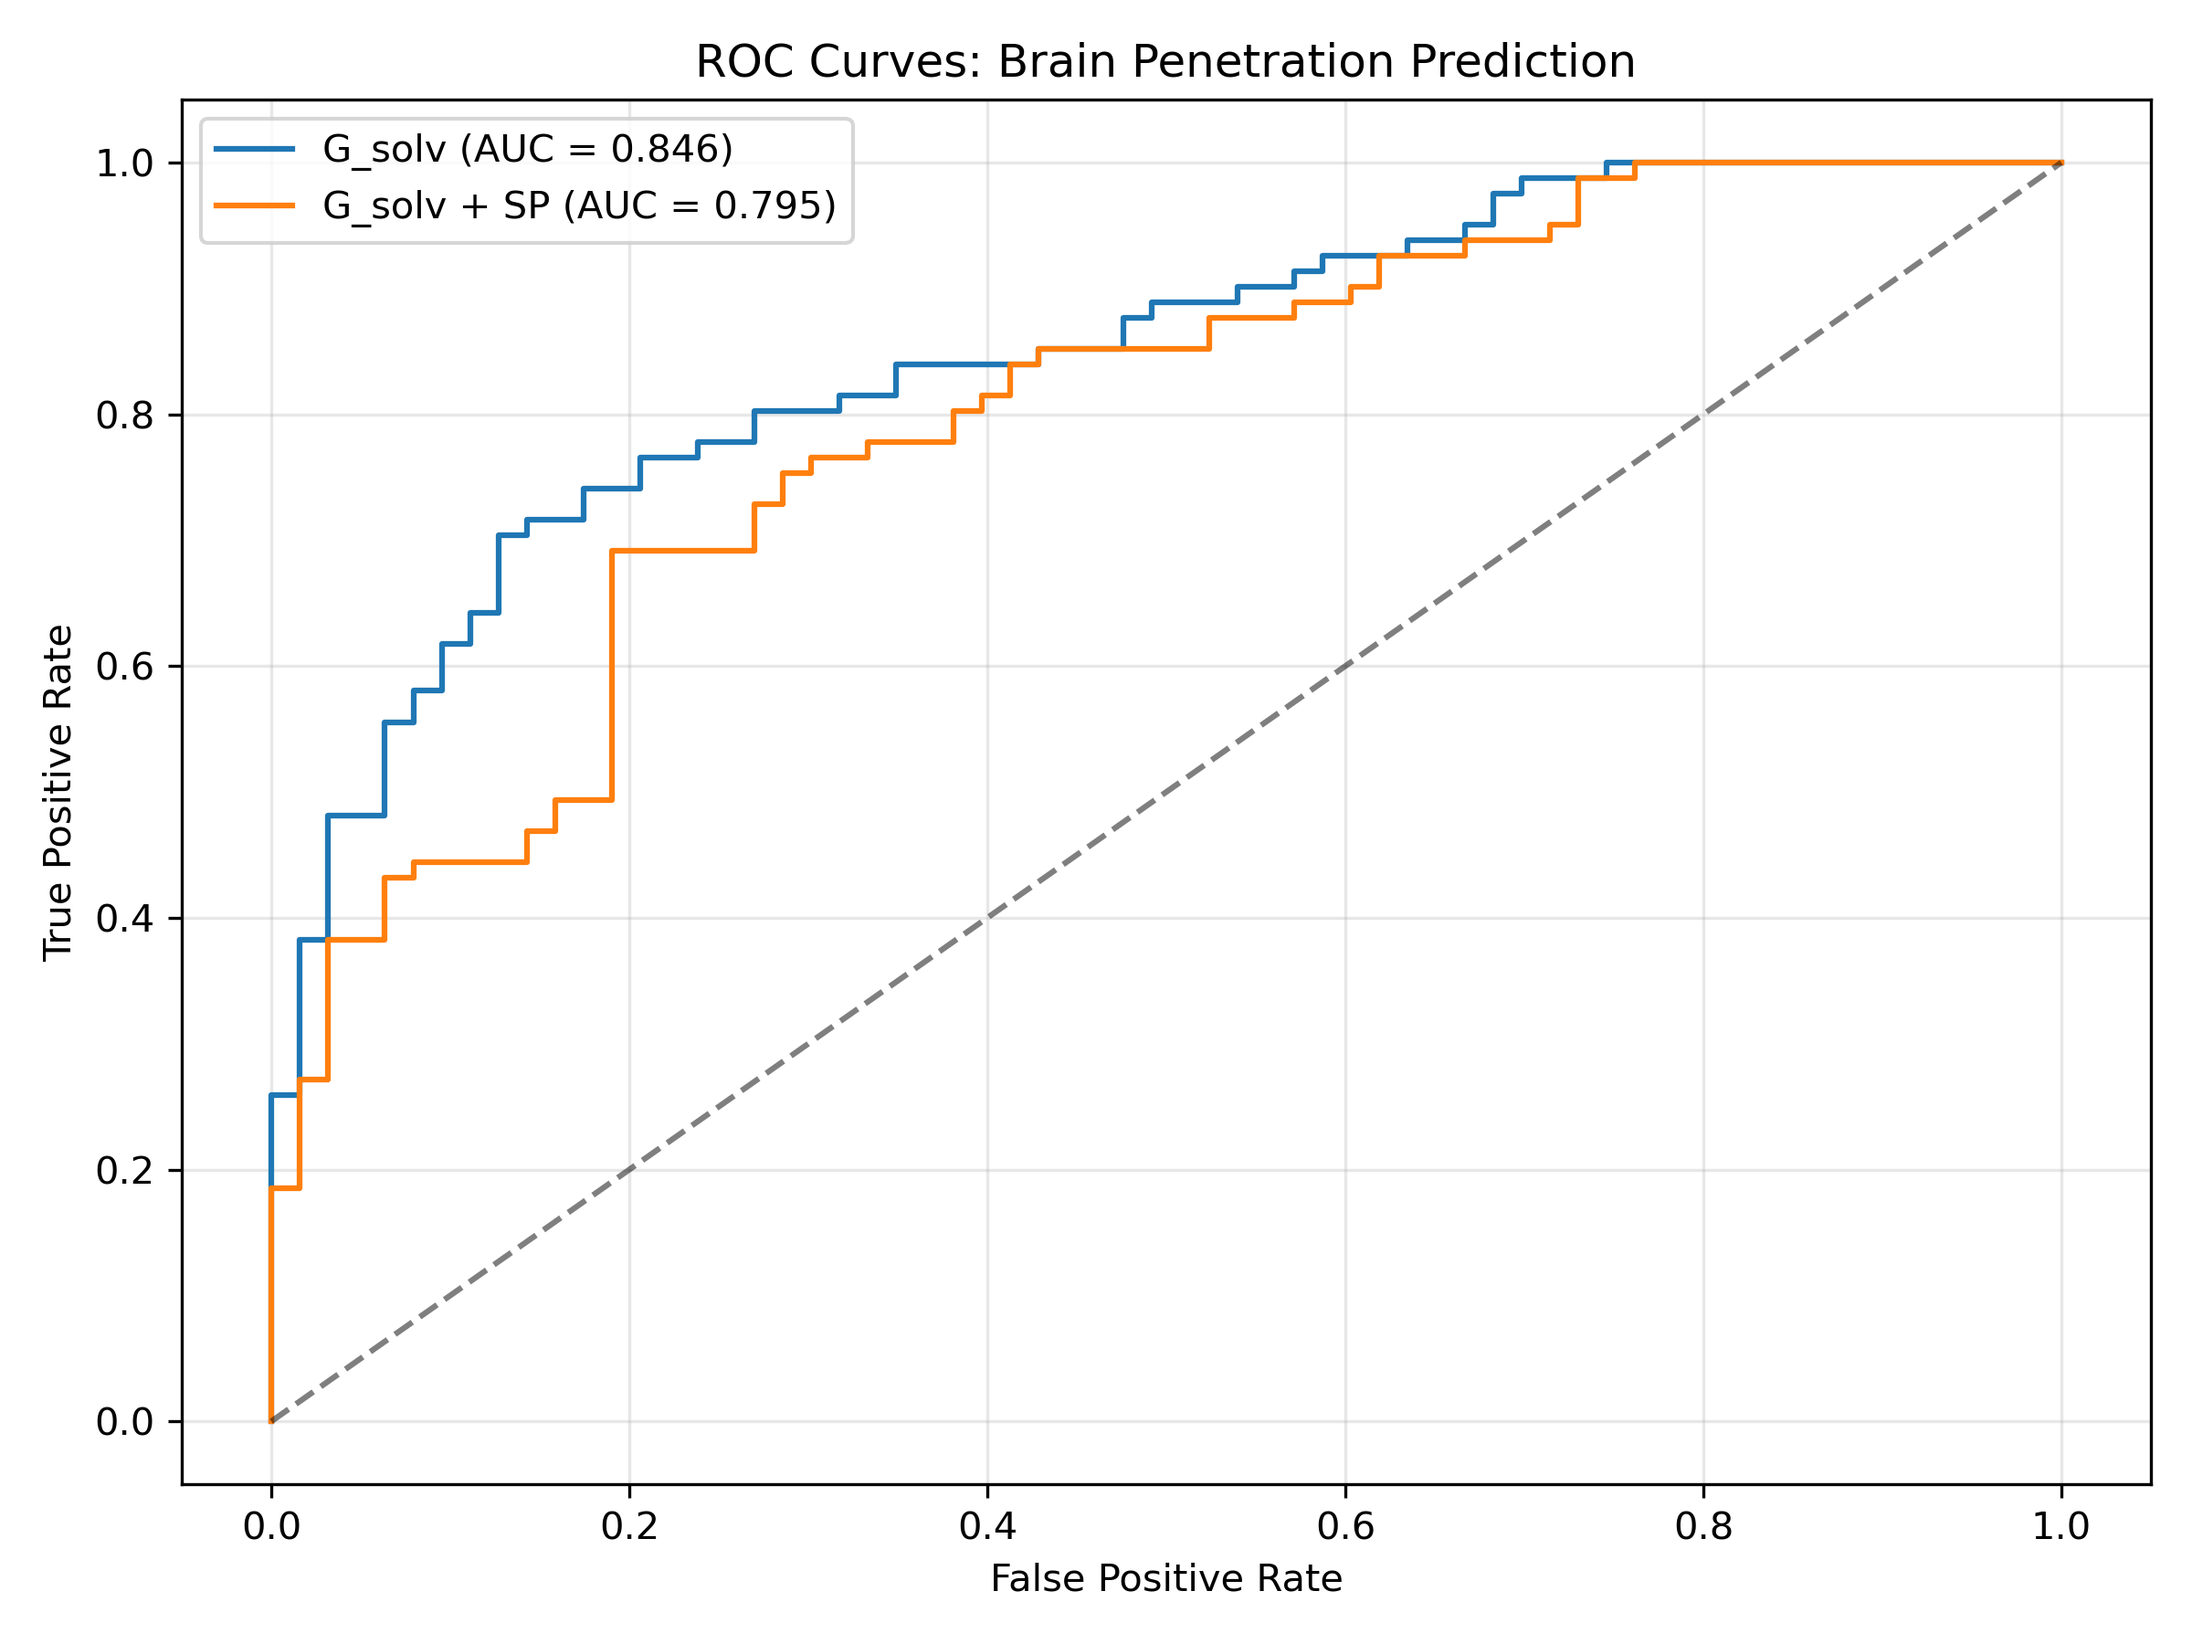
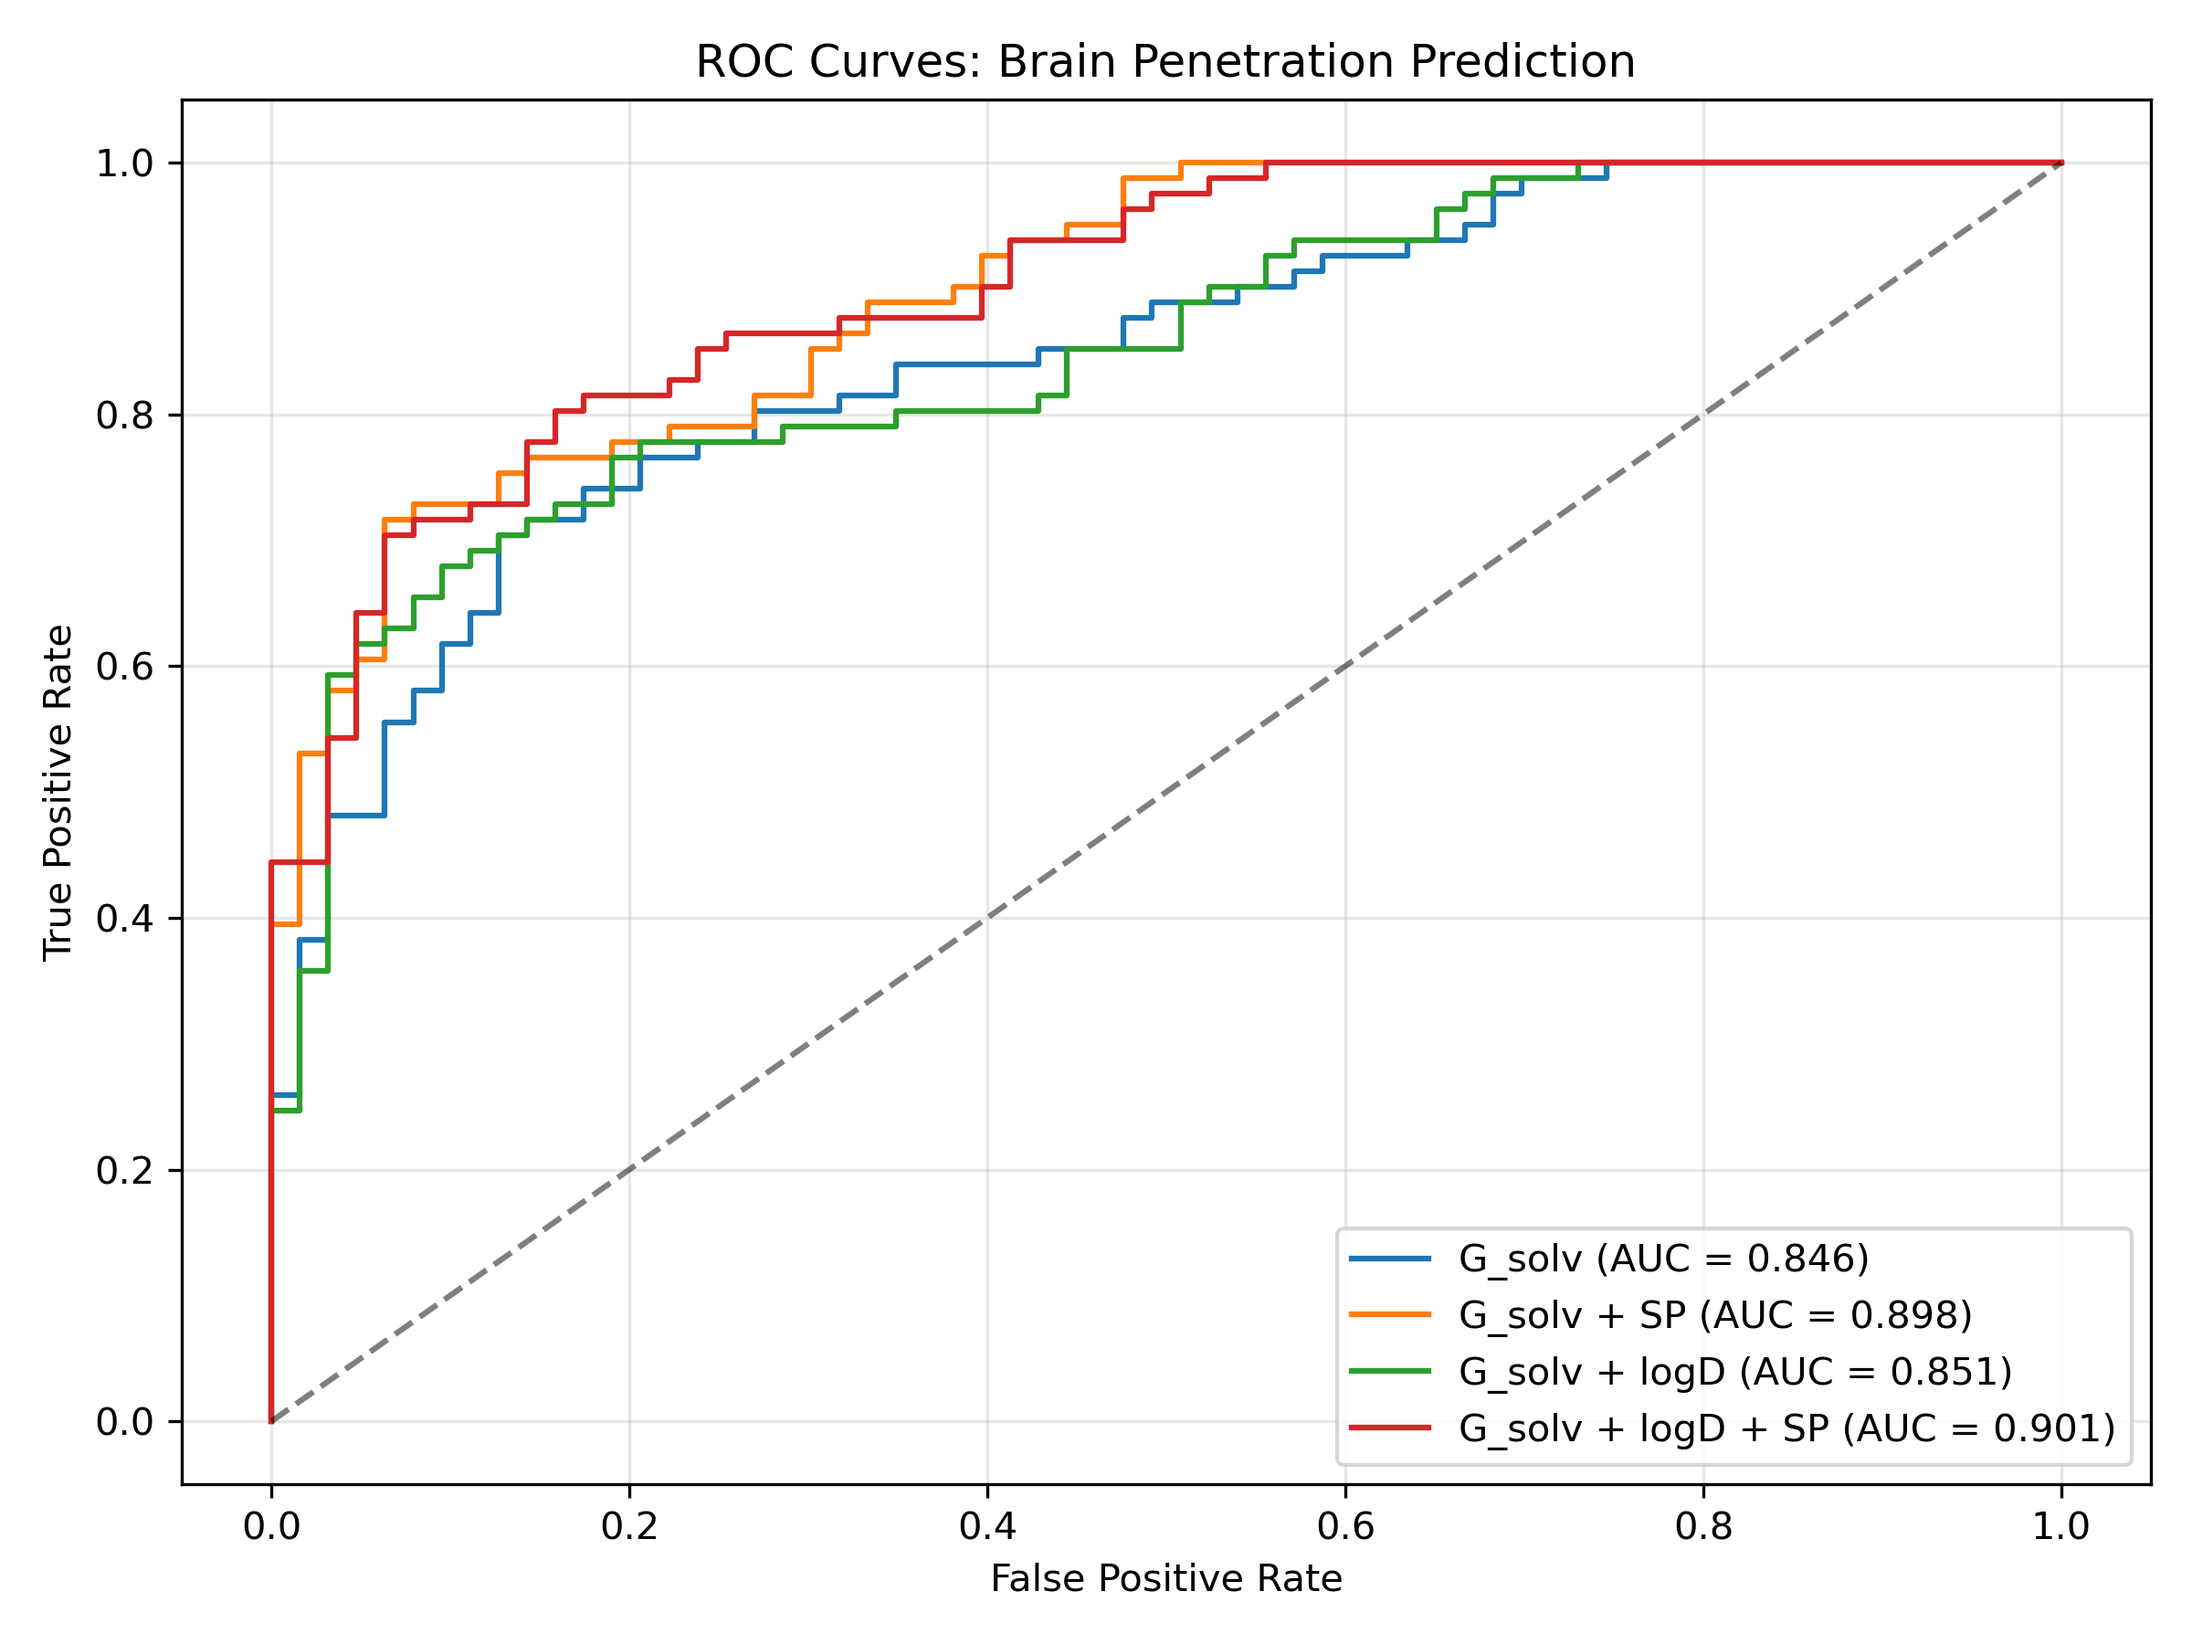
Initial

diff --git a/benchmarks/kpuu.py b/benchmarks/kpuu.py
@@ -8,10 +8,9 @@ from unipka._internal.solvation import get_solvation_energy
 from rdkit import Chem
 import ray
 from unipka.unipka import UnipKa
-from sklearn.linear_model import LogisticRegression
+from sklearn.linear_model import LogisticRegression, LinearRegression
 from sklearn.model_selection import StratifiedKFold, cross_val_score
 from sklearn.metrics import roc_auc_score, roc_curve
-
 
 
 def calculate_corrected_solvation_energy(mol):
@@ -19,14 +18,15 @@ def calculate_corrected_solvation_energy(mol):
     sp, ref_df = calc.get_state_penalty(mol, pH=7.4)
     mol = ref_df.iloc[0].mol
     G_solv = get_solvation_energy(mol)
-    return G_solv, sp
+    logD = calc.get_logd(mol, pH=7.4)
+    return G_solv, sp, logD
 
 def _calculate_corrected_solvation_energy(mol):
     try: 
         return calculate_corrected_solvation_energy(mol)
     except:
         print(Chem.MolToSmiles(mol))
-        return None, None
+        return None, None, None
 
 
 def analyze_brain_penetration(df, kpuu_column='Kpuu'):
@@ -42,21 +42,23 @@ def analyze_brain_penetration(df, kpuu_column='Kpuu'):
     y_binary = (df[kpuu_column] > 0.3).astype(int)
     
     print(f"Brain-penetrant compounds: {y_binary.sum()} / {len(y_binary)} ({100*y_binary.mean():.1f}%)")
-    
-    # Prepare descriptors
-    # Schrodinger approach: G_solv only
-    X1 = df[['G_solv']].values
-    
-    # AIMNet2/CPCM-X approach: G_solv + SP
-    X2 = (df['G_solv'] + df['sp']).values.reshape(-1, 1)
+
+    X0 = df[['G_solv']].values
+    X1 = df[['G_solv', 'sp']].values
+    X2 = df[['G_solv', 'logD']].values
+    X3 = df[['G_solv', 'logD','sp']].values
+
     
     # 5-fold stratified cross-validation
     cv = StratifiedKFold(n_splits=5, shuffle=True, random_state=42)
     
-    # Train and evaluate both models
+    # Train and evaluate models
     models = {
-        'G_solv': X1,
-        'G_solv + SP': X2
+        'G_solv': X0,
+        'G_solv + SP': X1,
+        'G_solv + logD': X2,
+        'G_solv + logD + SP': X3,
+
     }
     
     results = {}
@@ -110,7 +112,7 @@ def process_dataset():
     """Process a single dataset and return results DataFrame with metrics"""
     print(f"\n--- Processing Kpuu ---")
     
-    df = pd.read_csv("/tmp/kpuu.csv")
+    df = pd.read_csv("benchmarks/kpuu.csv")
     df.Kpuu = df.Kpuu.apply(lambda x: float(x.replace(",",".")))
 
     df['mol']  = [Chem.MolFromSmiles(s) for s in df['canonical SMILES']]
@@ -118,7 +120,7 @@ def process_dataset():
 
     ray_func = ray.remote(_calculate_corrected_solvation_energy)
     results = ray.get([ray_func.remote(smi) for smi in df.mol])
-    df['G_solv'], df['sp'] = zip(*results)
+    df['G_solv'], df['sp'], df['logD'] = zip(*results)
     df = df.dropna(subset=['G_solv'])
     
     # Clean data
@@ -138,26 +140,18 @@ def main():
     
     df = process_dataset()
 
-    import pdb; pdb.set_trace()
-
     clf = LogisticRegression()
-    X = (df['G_solv'] + df['sp']).values.reshape(-1, 1)
+    X = df[['G_solv','logD','sp']].values
     y = df.Kpuu > 0.3
-    clf.fit(df[['G_solv','sp']].values, y)
+    clf.fit(X, y)
 
-    corrected_weights = clf.coef_[0]  # Shape: (n_features,) for binary classification
-    corrected_bais = clf.intercept_[0]  # Scalar for binary classification
+    # Save weights
+    weights = {
+        "coef": clf.coef_.copy(),
+        "intercept": clf.intercept_.copy()
+    }
 
-    print("CORRECTED:", corrected_weights, corrected_bais)
-
-    clf = LogisticRegression()
-    clf.fit(df[['G_solv']].values, y)
-
-    uncorrected_weights = clf.coef_[0]  # Shape: (n_features,) for binary classification
-    uncorrected_bias = clf.intercept_[0]  # Scalar for binary classification
-
-    print("UNCORRECTED:", uncorrected_weights, uncorrected_bias)
-
+    np.savez("src/unipka/data/weights.kpuu.npz", **weights)
     analyze_brain_penetration(df)
 
 

diff --git a/src/unipka/unipka.py b/src/unipka/unipka.py
@@ -14,7 +14,7 @@ from rdkit.Chem import Crippen
 from torch.utils.data import DataLoader
 import matplotlib.pyplot as plt
 
-from ._internal.solvation import get_solvation_energy
+from ._internal.solvation import get_solvation_energy as _get_solvation_energy
 from ._internal.draw import calc_base_name, draw_ensemble, get_neutral_base_name
 from ._internal.conformer import ConformerGen
 from ._internal.dataset import MolDataset
@@ -23,7 +23,7 @@ from ._internal.template import LN10, TRANSLATE_PH, enumerate_template, get_ense
 from ._internal.coordinates import transplant_coordinates
 from ._internal.widget import Widget
 
-from .assets import get_model_path, get_pattern_path
+from .assets import get_model_path, get_pattern_path, load_kpuu_model
 
 
 RDLogger.DisableLog("rdApp.*")
@@ -292,7 +292,7 @@ class UnipKa(object):
         protomer_mol =  df.iloc[0].mol
         return protomer_mol
 
-    def draw_distribution(self, mol: Chem.Mol | str, /, mode: Literal["matplotlib", "jupyter"]) -> pd.DataFrame:
+    def draw_distribution(self, mol: Chem.Mol | str, /, mode: Literal["matplotlib", "jupyter"] = "matplotlib") -> pd.DataFrame:
 
         
         if isinstance(mol, str):
@@ -438,22 +438,20 @@ class UnipKa(object):
 
         return SP_kcal_mol, reference_microstates_df
     
-    def predict_brain_penetrance(self, mol: Chem.Mol, add_state_correction: bool = True) -> float:
+    @staticmethod
+    def get_solvation_energy(mol: Chem.Mol | str, /) -> float:
+        if isinstance(mol, str):
+            mol = Chem.MolFromSmiles(mol)
+        return _get_solvation_energy(mol)
+    
+    def predict_brain_penetrance(self, mol: Chem.Mol) -> float:
         sp, ref_df = self.get_state_penalty(mol, pH=7.4)
         mol = ref_df.iloc[0].mol
-        G_solv = get_solvation_energy(mol)
-
-        if add_state_correction:
-            weights = np.array([ 0.27883664, -0.7103157 ])
-            bias = 5.64817169
-            X = np.array([G_solv, sp]).reshape(1, -1)
-        else:
-            weights = np.array([0.20473481])
-            bias = 3.425158650365753
-            X = np.array([G_solv, sp]).reshape(1, -1)
-        logits = np.dot(X, weights) + bias
-        prob = 1 / (1 + np.exp(-logits))
-        return prob
+        G_solv = _get_solvation_energy(mol)
+        logD = self.get_logd(mol, pH=7.4)
+        clf = load_kpuu_model()
+        X= np.array([[G_solv, logD, sp]])
+        return clf.predict_proba(X)[0,1]
     
     def get_logd(self, mol: Chem.Mol | str, /, *,  pH: float) -> float:
         """
@@ -499,7 +497,7 @@ class UnipKa(object):
 
         return logd
     
-    def draw_logd_distribution(self, mol: Chem.Mol | str, /, mode: Literal["matplotlib"]) -> pd.DataFrame:
+    def draw_logd_distribution(self, mol: Chem.Mol | str, /, mode: Literal["matplotlib"] = "matplotlib") -> pd.DataFrame:
         """
         Draw logD distribution across pH range.
         
@@ -517,7 +515,7 @@ class UnipKa(object):
         query_smi = Chem.CanonSmiles(Chem.MolToSmiles(mol))
 
         # Free energy predictions from your model, grouped by charge
-        ensemble, ensemble_free_energy = self._predict_ensemble_free_energy(query_smi)
+        _, ensemble_free_energy = self._predict_ensemble_free_energy(query_smi)
 
         pHs = np.linspace(0, 14, 1000)
    
@@ -557,11 +555,6 @@ class UnipKa(object):
             logd = np.log10(sum(weighted_linear_logP))
             logd_values.append(logd)
         
-        # Create DataFrame with logD results
-        logd_df = pd.DataFrame({
-            'pH': pHs,
-            'logD': logd_values
-        })
 
         match mode:
             case "matplotlib":

diff --git a/src/unipka/assets.py b/src/unipka/assets.py
@@ -1,9 +1,12 @@
 import hashlib
+import numpy as np
 import requests
 from pathlib import Path
 from platformdirs import user_cache_dir
 from .version import __version__
 import importlib.resources as res
+from sklearn.linear_model import LogisticRegression, LinearRegression
+
 
 ASSET_NAME = "t_dwar_v_novartis_a_b.pt"
 ASSET_URL = f"https://github.com/finlayiainmaclean/unipka/releases/download/v{__version__}/{ASSET_NAME}"
@@ -39,3 +42,18 @@ def get_model_path() -> Path:
 
 def get_pattern_path(use_simple_smarts: bool = True):
     return res.files("unipka.data").joinpath("simple_smarts_pattern.tsv" if use_simple_smarts else "smarts_pattern.tsv")
+
+def load_kpuu_model():
+    weights_file = res.files("unipka.data").joinpath("weights.kpuu.npz")
+    params = np.load(weights_file)
+    clf = LogisticRegression()
+    clf.fit(np.ones((2,3)), np.array([0,1])) # Dummy fit
+    clf.coef_ = params["coef"]
+    clf.intercept_ = params["intercept"]
+    return clf
+
+
+
+
+
+
